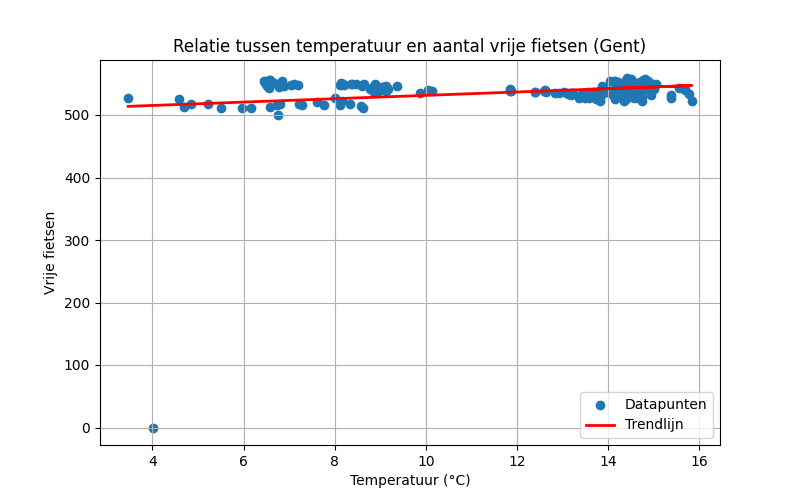
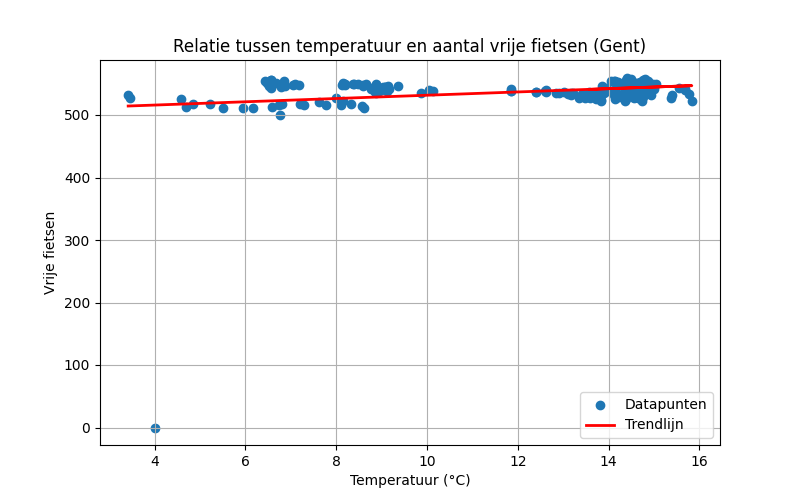
Automatische update 2025-11-17 20:30:10

diff --git a/reports/report.md b/reports/report.md
@@ -1,12 +1,12 @@
 # Data Workflow Rapport
 
-**Gegenereerd op:** 2025-11-17 20:15:07.688808
+**Gegenereerd op:** 2025-11-17 20:30:09.380781
 
 ## Grafiek: Vrije fietsen vs Temperatuur
 ![Fietsen vs Temp](fiets_vs_temp.png)
 
 ## Basisstatistieken
-- Gemiddelde temperatuur: 11.51 °C
+- Gemiddelde temperatuur: 11.46 °C
 - Gemiddeld aantal vrije fietsen: 535
 - Gemiddeld aantal fietsen overdag (07-19u): 536
 - Gemiddeld aantal fietsen ’s nachts (19-07u): 535
@@ -16,7 +16,7 @@
 
 | Weekdag | Min | Max | Gemiddelde |
 |---------|-----|-----|------------|
-| Maandag | 0 | 556 | 499 |
+| Maandag | 0 | 556 | 500 |
 | Dinsdag | 0 | 0 | 0 |
 | Woensdag | 0 | 0 | 0 |
 | Donderdag | 525 | 550 | 535 |
